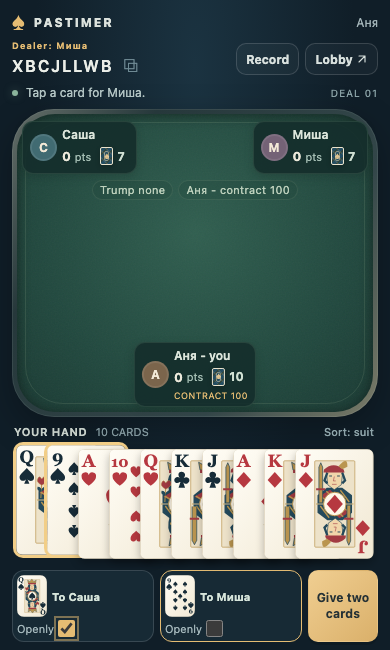
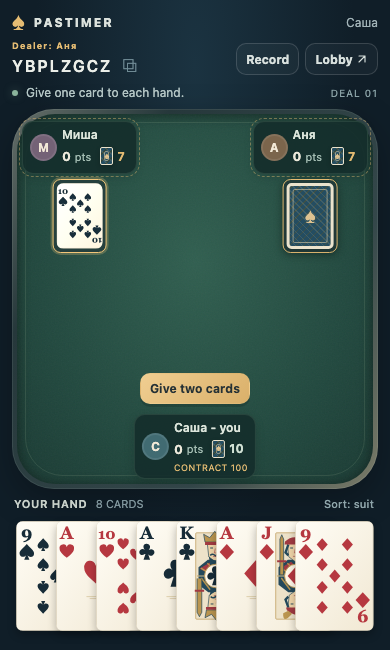
Default eligible marriages on and display the trump with gold rings

diff --git a/public/thousand.js b/public/thousand.js
@@ -5,7 +5,7 @@ const symbols={H:'♥',D:'♦',C:'♣',S:'♠'};
 let timer,formKey='',draft={},current,openPile=null,drag=null,suppressClickUntil=0;
 const read=key=>{try{return JSON.parse(localStorage.getItem(key)||'{}');}catch{return {};}};
 const deliveryKey=(room,me)=>`pastimer-deliveries:${me.id}:${room.id}:${room.table.deal}`;
-function prepare(room){const key=`${room.id}:${room.table.deal}:${room.table.phase}`;if(key!==formKey){formKey=key;draft={transfers:{},target:0,announce:null};}}
+function prepare(room){const key=`${room.id}:${room.table.deal}:${room.table.phase}`;if(key!==formKey){formKey=key;draft={transfers:{},target:0,announce:{},announceVersion:room.version};}if(draft.announceVersion!==room.version){draft.announce={};draft.announceVersion=room.version;}}
 export function incoming(room,me){
   // Receipt acknowledgment precedes the recipient's first play. Reopening a
   // later trick must not resurrect historical transfers or already played cards.
@@ -80,7 +80,7 @@ export function handCard(code,{room,me,send,run,repaint}){
     placeCard(room,code,(c.recipients[draft.target??0]??c.recipients[0]).id);
     repaint();return;
   }
-  if(c.legalCards.includes(code))run(()=>send({type:'play',card:code,announce:c.announceCards.includes(code)&&draft.announce===code.slice(-1)}));
+  if(c.legalCards.includes(code))run(()=>send({type:'play',card:code,announce:c.announceCards.includes(code)&&draft.announce[code.slice(-1)]!==false}));
 }
 export function renderThousand({room,me,send,sendPlatform,refresh,run,repaint,now}){
   clearTimeout(timer);prepare(room);current={room,me};const t=room.table,c=t.controls;
@@ -103,7 +103,9 @@ export function renderThousand({room,me,send,sendPlatform,refresh,run,repaint,no
   const status={awaitShuffle:`${name(t.dealer)} deals next.`,auction:ending?'Auction complete.':`${t.turn===me.id?'Your turn':name(t.turn)+"'s turn"} to bid.`,stock:`${name(t.contractor)} takes the stock.`,distribution:c.recipients.length?'Give one card to each hand.':`${name(t.contractor)} is giving cards.`,preparation:`${name(t.contractor)} sets the contract.`,trick:t.turn===me.id?'Your turn - tap a card to play.':`${name(t.turn)} is playing.`,closing:'Trick complete.',finished:'The match is complete.'};
   $('phase').textContent=status[phase];
   $('thousand-table').hidden=false;$('thousand-table').replaceChildren();
-  const hud=node('div','','table-hud');hud.append(node('span',`Trump ${t.trump?symbols[t.trump]:'none'}`,'hud-pill'));
+  const hud=node('div','','table-hud'),trump=node('div','','trump-marker');trump.dataset.trump=t.trump??'none';trump.setAttribute('aria-label',t.trump?`Current trump: ${{H:'hearts',D:'diamonds',C:'clubs',S:'spades'}[t.trump]}`:'No trump');
+  if(t.trump){const rings=node('span','','marriage-rings');rings.setAttribute('aria-hidden','true');rings.innerHTML='<svg viewBox="0 0 72 46" fill="none"><ellipse cx="26" cy="23" rx="20" ry="12" transform="rotate(-36 26 23)" stroke="#e5bc73" stroke-width="4"/><ellipse cx="46" cy="23" rx="20" ry="12" transform="rotate(36 46 23)" stroke="#f4d99e" stroke-width="4"/></svg>';const mark=node('span',symbols[t.trump],`trump-suit suit-${t.trump}`);mark.setAttribute('aria-hidden','true');trump.append(rings,mark);}else trump.append(node('span','NO TRUMP'));
+  hud.append(trump);
   hud.append(node('span',t.contractor&&!ending?`${name(t.contractor)} - contract ${t.order}`:`Bid ${t.order}`,'hud-pill'));$('thousand-table').append(hud);
   const center=node('div','','table-center');
   function stock(){const box=node('div','','stock-display'),cards=node('div','','stock-row');cards.setAttribute('aria-label',t.stock?'Opened stock':'Sealed stock');for(let i=0;i<3;i++)cards.append(t.stock?playingCard(t.stock[i]):cardBack());box.append(cards,node('span',t.stock?'OPEN STOCK':'STOCK','stock-caption'));return box;}
@@ -158,6 +160,7 @@ export function renderThousand({room,me,send,sendPlatform,refresh,run,repaint,no
   const arrivals=incoming(room,me);$('incoming-zone').replaceChildren();
   for(const gift of arrivals){const button=node('button','','incoming-card');button.type='button';button.dataset.transfer=String(gift.id);button.setAttribute('aria-label',gift.stage?`Add ${cardName(gift.card)} to your hand`:'Reveal secret card');button.append(gift.stage?playingCard(gift.card):cardBack());button.onclick=()=>{const saved=read(deliveryKey(room,me));saved[gift.id]=gift.stage?2:1;localStorage.setItem(deliveryKey(room,me),JSON.stringify(saved));repaint();};$('incoming-zone').append(button);}
   if(arrivals.length){$('phase').textContent='Your card.';for(const control of $('game-actions').querySelectorAll('button,input'))control.disabled=true;}
-  if(c.announceCards.length&&!arrivals.length){const suits=[...new Set(c.announceCards.map(card=>card.slice(-1)))];for(const suit of suits){const toggle=node('button',`Announce ${symbols[suit]} +${{H:100,D:80,C:60,S:40}[suit]}`,'secondary marriage-toggle');toggle.setAttribute('aria-pressed',String(draft.announce===suit));toggle.onclick=()=>{draft.announce=draft.announce===suit?null:suit;repaint();};$('game-actions').append(toggle);}}
+  if(c.announceCards.length&&!arrivals.length){const suits=[...new Set(c.announceCards.map(card=>card.slice(-1)))];for(const suit of suits){const toggle=node('button',`Announce ${symbols[suit]} +${{H:100,D:80,C:60,S:40}[suit]}`,'secondary marriage-toggle');toggle.setAttribute('aria-pressed',String(draft.announce[suit]!==false));toggle.onclick=()=>{draft.announce[suit]=draft.announce[suit]===false;repaint();};$('game-actions').append(toggle);}}
+  for(const card of $('hand').children){const announce=c.announceCards.includes(card.dataset.card)&&draft.announce[card.dataset.card.slice(-1)]!==false;card.classList.toggle('announces-marriage',announce);if(announce)card.setAttribute('aria-description','Announces the marriage and changes trump');}
   $('audit').disabled=t.auditDeals===0;$('audit').textContent=t.auditDeals?'Download audit':'No completed deal yet';
 }

diff --git a/public/style.css b/public/style.css
@@ -176,3 +176,12 @@ dialog::backdrop{background:#07121acc;backdrop-filter:blur(3px)}
 #room[data-presentation=distribution] .table-center>.table-instruction{display:none}
 
 #room[data-presentation=distribution] .table-hud{visibility:hidden}
+
+#room .trump-marker{display:flex;align-items:center;justify-content:center;flex:none;gap:4px;min-height:35px;padding:0 5px;border:1px solid #e5bc7380;border-radius:10px;background:#132f2dbf;color:#f4d99e;font-size:11px;font-weight:800;letter-spacing:1px}
+#room .trump-marker[data-trump=none]{border-color:#ffffff20;color:#adc4bb;font-size:10px;min-height:27px}
+.marriage-rings{display:flex}.marriage-rings svg{width:54px;height:35px;filter:drop-shadow(0 1px 2px #0007)}
+#room .trump-suit{font:38px/1 Georgia,serif;color:#f7f1df;text-shadow:0 1px 3px #0008}
+#room .trump-suit.suit-H,#room .trump-suit.suit-D{color:#ff7c83}
+#room .table-hud>.hud-pill{min-width:0;overflow:hidden;white-space:nowrap;text-overflow:ellipsis}
+#room .hand .card.announces-marriage{box-shadow:0 0 0 2px var(--gold),0 0 12px #e5bc7380}
+@media(max-height:500px){.marriage-rings svg{width:44px;height:29px}#room .trump-suit{font-size:31px}#room .trump-marker{min-height:30px}}

diff --git a/README.md b/README.md
@@ -35,7 +35,7 @@ The shared interface uses a felt card table, illustrated vector playing cards an
 
 For testing without recruiting a full table, choose **Computer seats** when creating a Thousand room. With three seats, **2 computers - solo** lets you play alone; **1 computer - 2 people** needs you and one friend. Four-seat tables can also include computers. They calculate conservative bids from guaranteed winning leads and an attainable marriage, retain those cards when distributing, cash winners before declaring trump, and try to win playable tricks. They use only their own view and public played cards. Turns are paced at three seconds so each reaction is visible. When a computer is the dealer, press **Ask computer to deal**; completed results stay available until someone starts the next deal.
 
-The table fits the visible Mini App screen. Tap a legal card to play it immediately; optionally turn on a marriage announcement before tapping its king or queen. Drag distribution cards from your hand onto the respective player hands. Tap each staged card to turn it face up (open) or face down (secret), or drag it back to cancel. Press Give two cards on the table once both are ready. A secret incoming card is revealed with one tap and sorted into your hand with the next. Opened stock is enlarged and disappears once taken. Tap a player's seat or hand/count indicator to inspect their last won trick. Auction speech bubbles retain the latest calls until the auction ends, then give way to the contractor and contract. Closing and reopening restores your table through your authenticated identity, even in a fresh browser window.
+The table fits the visible Mini App screen. Tap a legal card to play it immediately; an eligible marriage is announced by default when you lead its king or queen. Switch its option off first to play without announcing. The current trump is marked prominently by gold rings and its suit. Drag distribution cards from your hand onto the respective player hands. Tap each staged card to turn it face up (open) or face down (secret), or drag it back to cancel. Press Give two cards on the table once both are ready. A secret incoming card is revealed with one tap and sorted into your hand with the next. Opened stock is enlarged and disappears once taken. Tap a player's seat or hand/count indicator to inspect their last won trick. Auction speech bubbles retain the latest calls until the auction ends, then give way to the contractor and contract. Closing and reopening restores your table through your authenticated identity, even in a fresh browser window.
 
 `DEV_AUTH=1` allows loopback-only login and is forbidden in production. Every local sign-in creates a new identity; the cookie preserves it for one day. `.env.example` documents configuration; environment files are not automatically loaded. `PASTIMER_ENV=production` enables production behavior; the previous `NODE_ENV=production` spelling is also accepted for compatibility. Supply real secrets through the deployment's environment, never a committed file.
 

diff --git a/AGENTS.md b/AGENTS.md
@@ -9,7 +9,7 @@ Read [README.md](README.md) and [docs/handoff.md](docs/handoff.md) when starting
 - Treat [English rules](docs/thousand-rules.md) and [Russian rules](docs/thousand-rules.ru.md) as the agreed specification. Keep both synchronized if rules change; ask about genuine new ambiguities rather than silently adopting another Thousand variant. Keep the rules files about the rules.
 - Thousand publishes the shuffled deck hash and deals immediately; players do not acknowledge it. The legacy high-card demo still uses acknowledgements.
 - After three seconds a completed trick joins its winner's pile. Players can inspect the most recent trick won by **each player**, including themselves, throughout the current deal.
-- Normal play fits the Mini App viewport. Cards play on one tap; marriage announcement remains a voluntary toggle chosen before the card. Inspect last won tricks from the seat/hand display, without a separate pile row.
+- Normal play fits the Mini App viewport. Cards play on one tap; eligible marriages are selected by default when leading a legal king/queen. Keep the voluntary opt-out before playing. Show the current trump prominently with crossed gold rings and the suit. Inspect last won tricks from the seat/hand display, without a separate pile row.
 - Auction calls are paced three seconds apart and shown in seat speech bubbles. Keep each player's latest call until the auction ends, then show the contractor and contract. The log retains every call.
 - Drag stock transfers from the hand onto the recipient seat/hand, with touch and mouse support. Tap a staged card to turn it face up (open) or face down (secret); drag it back to cancel. Keep one atomic Give action on the table and no separate lower transfer panel. Staged cards leave the visible hand/count until returned or committed. Recipients see open cards face up and secret cards face down; reveal a secret card, then tap again to sort it into the hand. Use the incoming card highlight without visible sender/tap instructions, and suppress old receipts after play begins. Hand counts come from the actual server hand. Taken stock disappears from the table.
 - Computer bids use conservative guaranteed tricks/points and an attainable marriage; the policy sees only its own view and public played cards. Preserve the winning-card/announcement plan when distributing and playing.

diff --git a/docs/screenshots/README.md b/docs/screenshots/README.md
@@ -11,6 +11,7 @@ Captured as viewport images at a 390 x 650 CSS-pixel viewport with a 1x device s
 | A completed trick before its three-second collection | [03-playing-a-trick.png](03-playing-a-trick.png) |
 | Last captured trick opened from a player seat | [04-collected-tricks.png](04-collected-tricks.png) |
 | Highlighted secret receipt with no instructional text | [05-incoming-card.png](05-incoming-card.png) |
+| Prominent hearts trump with crossed gold rings (UI fixture) | [06-hearts-trump.png](06-hearts-trump.png) |
 
 Regenerate from the repository root after installing the optional browser dependencies described in the [handoff](../handoff.md):
 
@@ -19,4 +20,4 @@ cargo build --locked
 node scripts/capture-screenshots.mjs
 ```
 
-The incoming-card preview comes from the receipt step in `tests/thousand-browser.mjs`. The capture helper writes the other four previews to `artifacts/screenshots/`, which is ignored by Git. Review the resulting images and copy the selected PNGs into this directory to update the committed gallery. No real Telegram bot token is required.
+The trump-marker preview uses the controlled legal-view fixture in `tests/marriage-browser.mjs`. The incoming-card preview comes from the receipt step in `tests/thousand-browser.mjs`. The capture helper writes the other four previews to `artifacts/screenshots/`, which is ignored by Git. Review the resulting images and copy the selected PNGs into this directory to update the committed gallery. No real Telegram bot token is required.
